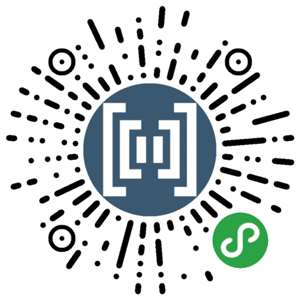
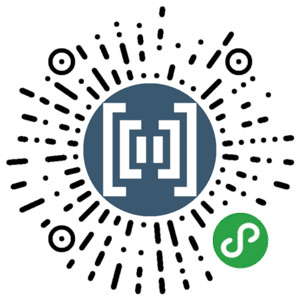
重新开启小程序入口二维码

diff --git a/monitor/wxapi/Tpl/default/Monitor/mobile.htm b/monitor/wxapi/Tpl/default/Monitor/mobile.htm
@@ -62,9 +62,9 @@ body {
     <li class="layui-nav-item layui-this">
       <a href="javascript:doLoadWebQR();">手机浏览器入口</a>
     </li>
-    <!--<li class="layui-nav-item">
+    <li class="layui-nav-item">
       <a href="javascript:doLoadMiniQR();">微信小程序入口</a>
-    </li>-->
+    </li>
   </ul>
 </div>
 

diff --git a/recorder/wxapi/Tpl/default/Home/mobile.htm b/recorder/wxapi/Tpl/default/Home/mobile.htm
@@ -62,9 +62,9 @@ body {
     <li class="layui-nav-item layui-this">
       <a href="javascript:doLoadWebQR();">手机浏览器入口</a>
     </li>
-    <!--<li class="layui-nav-item">
+    <li class="layui-nav-item">
       <a href="javascript:doLoadMiniQR();">微信小程序入口</a>
-    </li>-->
+    </li>
   </ul>
 </div>
 
